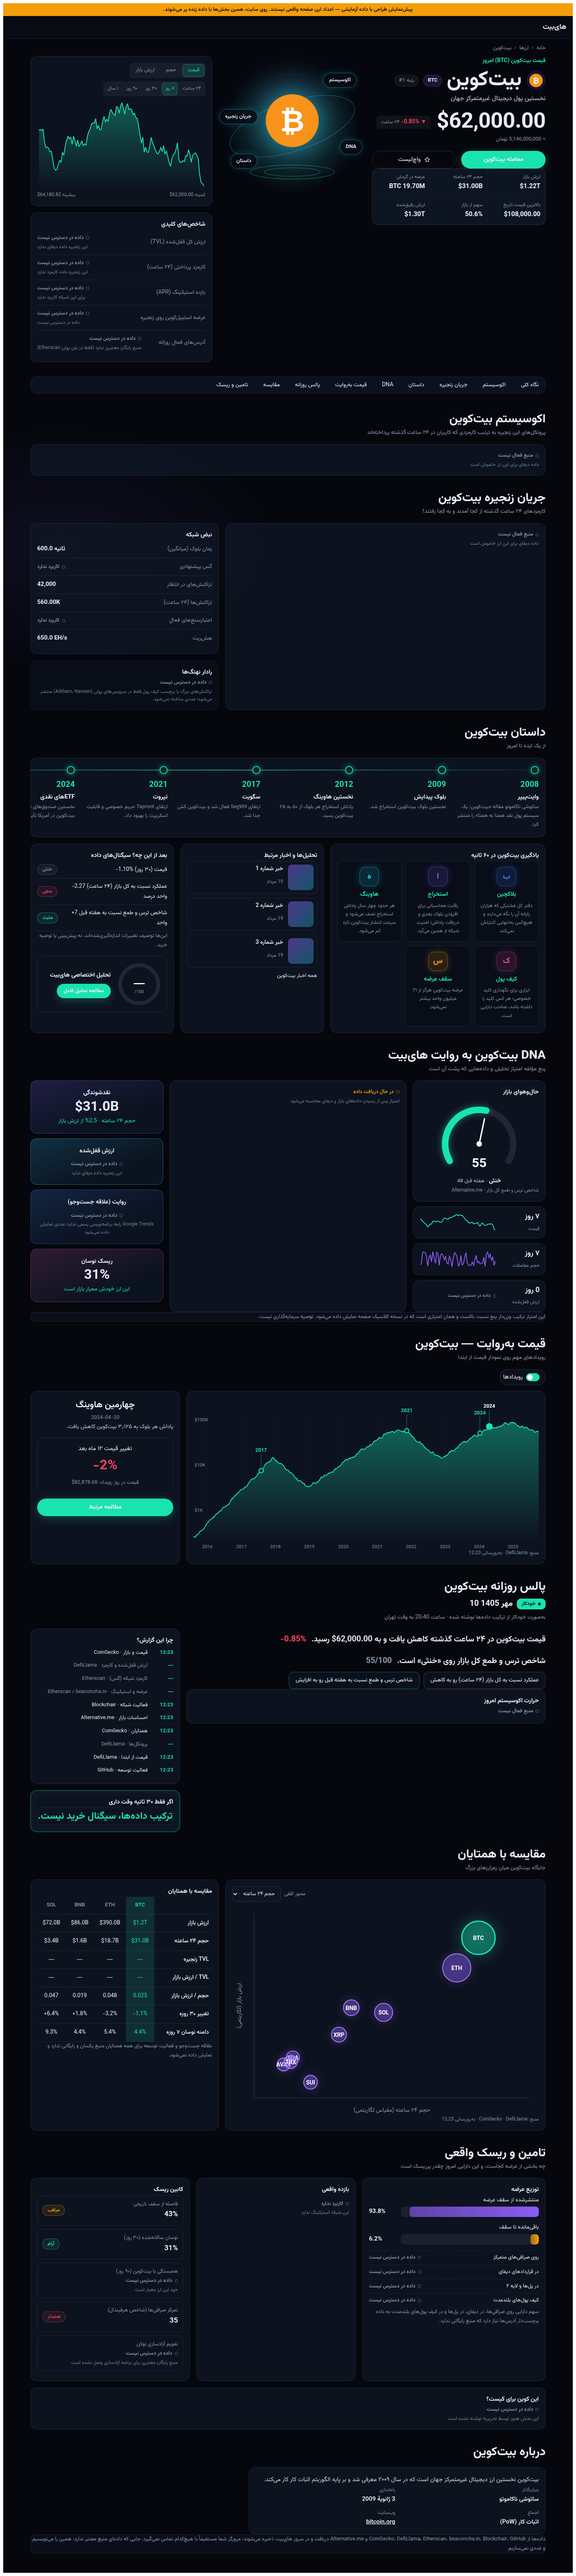
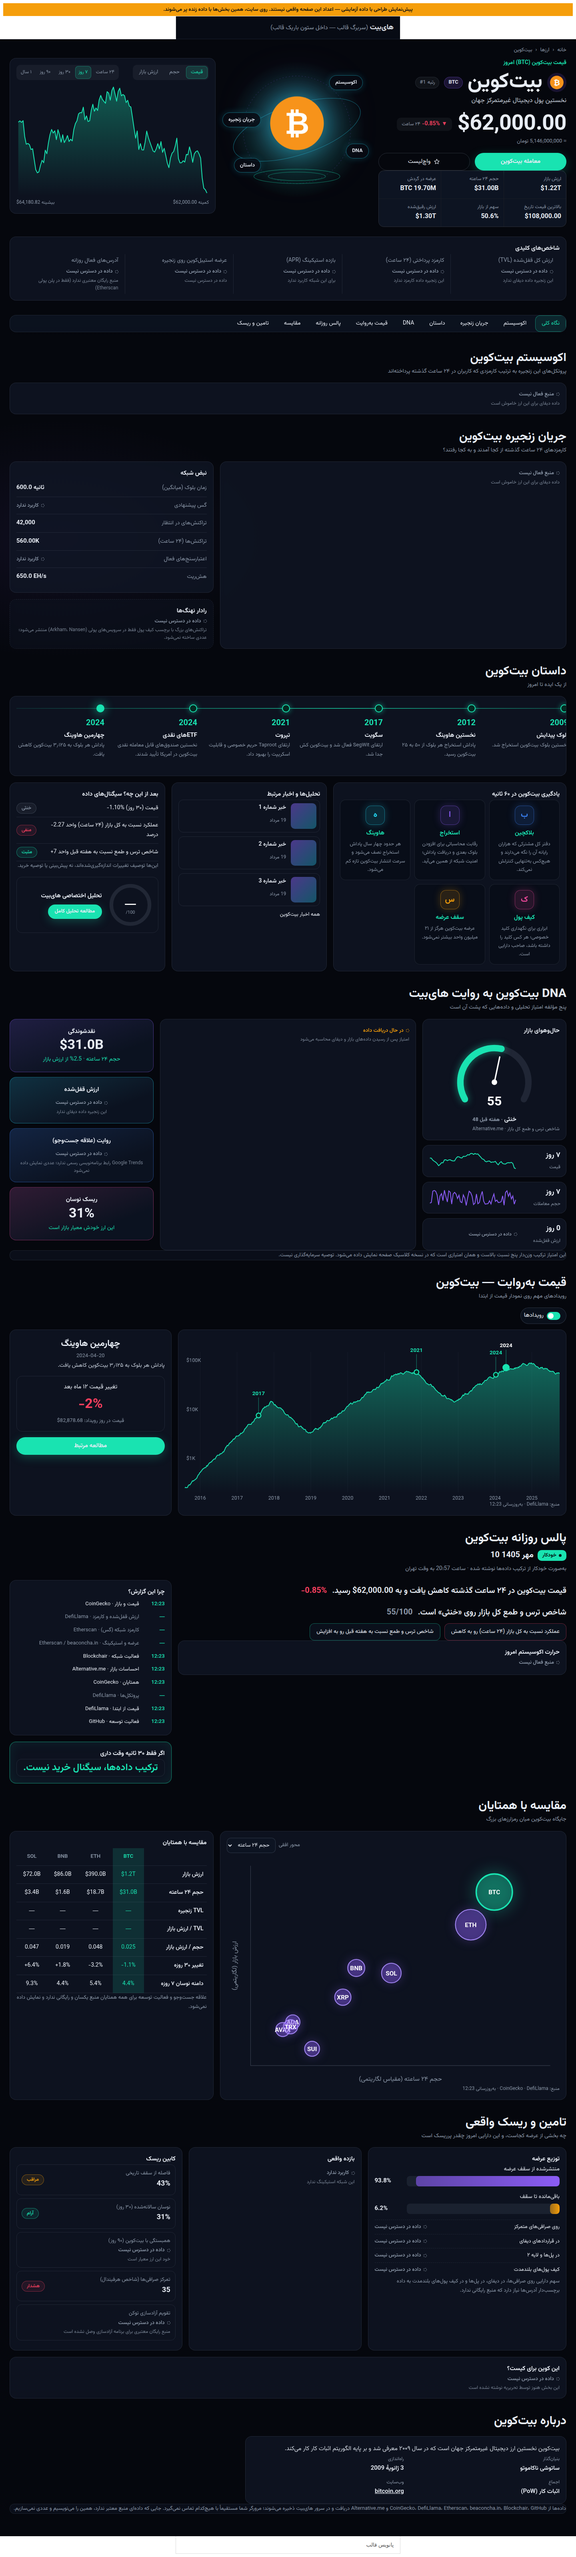
v2: use the full desktop width inside narrow theme boxes
The live theme wraps a single post in a ~470px box, and v2 laid itself
out from the window width: a desktop grid squeezed into a phone-sized
column. Now:

- The page breaks out of the theme box to the viewport (exact client
  width via a tiny inline script, CSS fallback without JS), correcting
  for off-centre boxes and padding.
- Every breakpoint is a container query on the page's own width.
- Desktop hero: identity | orbit | chart, key metrics as a full-width
  band; content cap raised to 1760px.
- Phone layouts for the fee-flow Sankey (legend list) and the
  ecosystem list (secondary columns hidden); wide charts open centred.
- Browser tests render inside boxed, sidebar and shrink-to-fit theme
  layouts at 1440 and 390 and assert full width and column counts;
  they fail on the previous build with the reported symptom.
- Screenshots served over HTTP so v2.js runs in them.

Claude-Session: https://claude.ai/code/session_01Lja8rszZytu3z9uyLt9Xtg

diff --git a/thehybit-coins/assets/v2/v2.css b/thehybit-coins/assets/v2/v2.css
@@ -9,6 +9,11 @@
  * inside its own box instead.
  */
 
+/* The breakout above makes the page exactly as wide as the viewport; clip
+   rather than scroll anything that rounds a pixel over. Only on pages that
+   contain the v2 design — the classic page never loads this file. */
+html:has(.thb-v2) { overflow-x: clip; }
+
 @font-face {
   font-family: "Vazirmatn";
   src: url("../fonts/vazirmatn/Vazirmatn-Regular.woff2") format("woff2");
@@ -32,6 +37,24 @@
 }
 
 .thb-v2 {
+  /* FULL WIDTH, WHATEVER THE THEME WRAPS US IN.
+     Themes put single posts in a boxed column — on the live site, a column
+     about 470px wide on a 1440px screen. The page breaks out of that box to
+     the viewport: width is the viewport's, and the negative margins (100% is
+     the box's width) centre it on the viewport. --v2-vw starts as 100vw and
+     is replaced with the exact client width, scrollbar excluded, by the small
+     inline script at the top of the template, which also corrects the
+     margins when the theme's box is not centred (a sidebar layout). */
+  --v2-vw: 100vw;
+  width: var(--v2-vw);
+  max-width: none;
+  margin-left: calc((100% - var(--v2-vw)) / 2);
+  margin-right: calc((100% - var(--v2-vw)) / 2);
+  /* Layout follows THIS element's width, not the window's: every breakpoint
+     below is a container query on `v2`. If a theme ever clips the breakout,
+     the page still lays out for the width it really has instead of showing
+     a desktop grid squeezed into a phone-sized column. */
+  container: v2 / inline-size;
   --v2-bg: #05070d;
   --v2-bg-2: #070b14;
   --v2-surface: rgba(16, 24, 39, .72);
@@ -82,7 +105,11 @@
 .thb-v2 :focus-visible { outline: 2px solid var(--v2-accent); outline-offset: 2px; border-radius: 6px; }
 .thb-v2 [hidden] { display: none !important; }
 
-.v2-wrap { max-width: 1320px; margin: 0 auto; padding: 12px 16px 48px; }
+/* Content spans the page. The cap only applies on very wide monitors (beyond
+   1760px), where full-width lines and charts get too long to read. At 1440
+   the content is 1440 − 2×24px wide. */
+.v2-wrap { max-width: 1760px; margin: 0 auto; padding: 12px 16px 48px; }
+@container v2 (min-width: 1120px) { .v2-wrap { padding: 16px 24px 56px; } }
 
 .v2-sr {
   position: absolute; width: 1px; height: 1px; overflow: hidden;
@@ -207,7 +234,7 @@
 /* A wide chart on a narrow screen scrolls inside its card, at a size where
    its labels are still readable, instead of shrinking to illegibility. */
 .v2-xscroll { overflow-x: auto; -webkit-overflow-scrolling: touch; scrollbar-width: thin; }
-@media (max-width: 767px) {
+@container v2 (max-width: 767px) {
   .v2-xscroll > svg { min-width: var(--min, 640px); }
 }
 
@@ -334,6 +361,16 @@
 .v2-flow__total { fill: #fff; font-size: 22px; font-weight: 700; }
 .v2-flow__sub { fill: var(--v2-muted); font-size: 13px; }
 .v2-flow__legend { display: flex; justify-content: space-between; gap: 12px; flex-wrap: wrap; color: var(--v2-muted); font-size: 12px; margin-top: 8px; }
+.v2-flow__mobile { display: none; }
+.v2-flow__mtitle { font-size: 13px; color: var(--v2-muted); margin: 12px 0 6px; font-weight: 600; }
+.v2-flow__mlist li { display: flex; align-items: center; gap: 8px; padding: 4px 0; font-size: 14px; }
+.v2-flow__mlist .v2-num { margin-right: auto; /* physical: the number is dir=ltr, so a logical margin would point the wrong way */ color: var(--v2-accent); font-weight: 700; }
+.v2-swatch { width: 12px; height: 12px; border-radius: 3px; background: var(--tone); flex: none; }
+@container v2 (max-width: 599px) {
+  .v2-flow__mobile { display: block; }
+  .v2-flow__label, .v2-flow__pct { display: none; }
+  .v2-hide-sm { display: none; }
+}
 .v2-flow__side { display: grid; gap: var(--v2-gap); align-content: start; min-width: 0; }
 .v2-facts { display: grid; gap: var(--v2-gap); grid-template-columns: minmax(0, 1fr); margin-top: var(--v2-gap); }
 .v2-facts li { display: flex; justify-content: space-between; align-items: center; gap: 12px; }
@@ -382,7 +419,7 @@
 
 .v2-dna__grid { display: grid; gap: var(--v2-gap); grid-template-columns: minmax(0, 1fr); }
 .v2-dna__grid .v2-radar { order: -1; }
-@media (max-width: 599px) {
+@container v2 (max-width: 599px) {
   .v2-radar__lbl { font-size: 20px; }
   .v2-radar__val { font-size: 19px; }
   .v2-radar__nodata { font-size: 16px; }
@@ -514,13 +551,13 @@
 
 /* ---------- breakpoints ---------- */
 
-@media (min-width: 600px) {
+@container v2 (min-width: 600px) {
   .v2-stats { grid-template-columns: repeat(3, minmax(0, 1fr)); }
   .v2-facts { grid-template-columns: repeat(3, minmax(0, 1fr)); }
   .v2-audience__list { grid-template-columns: repeat(3, minmax(0, 1fr)); }
 }
 
-@media (min-width: 768px) {
+@container v2 (min-width: 768px) {
   .v2-overview { grid-template-columns: minmax(0, 1fr) minmax(0, 1fr); }
   .v2-eco__grid, .v2-flow__grid, .v2-peers__grid { grid-template-columns: minmax(0, 1.7fr) minmax(0, 1fr); }
   .v2-pstory__grid, .v2-pulse__grid { grid-template-columns: minmax(0, 2.4fr) minmax(0, 1fr); }
@@ -533,8 +570,24 @@
   .v2-about__grid { grid-template-columns: minmax(0, 1.4fr) minmax(0, 1fr); }
 }
 
-@media (min-width: 1120px) {
-  .v2-overview { grid-template-columns: minmax(0, 1.05fr) minmax(0, .85fr) minmax(0, 1.1fr); }
+@container v2 (min-width: 1120px) {
+  /* Desktop hero: identity | orbit | chart on one row, key metrics as a
+     full-width band of five beneath — the proportions of reference 2. */
+  .v2-overview {
+    grid-template-columns: minmax(0, 1.05fr) minmax(0, .8fr) minmax(0, 1.15fr);
+    grid-template-areas: "id orbit chart" "km km km";
+  }
+  .v2-overview__id { grid-area: id; }
+  .v2-orbit { grid-area: orbit; }
+  .v2-overview__side { display: contents; }
+  .v2-chartcard { grid-area: chart; }
+  .v2-keymetrics { grid-area: km; }
+  .v2-chart { height: 280px; }
+  .v2-keymetrics .v2-kv { display: grid; grid-template-columns: repeat(5, minmax(0, 1fr)); }
+  .v2-keymetrics .v2-kv li { flex-direction: column; align-items: flex-start; justify-content: flex-start; gap: 4px; border-bottom: 0; padding: 4px 16px; }
+  .v2-keymetrics .v2-kv li + li { border-inline-start: 1px solid var(--v2-line); }
+  .v2-keymetrics .v2-kv__value { margin-inline-start: 0; font-size: 20px; }
+  .v2-keymetrics .v2-kv .v2-na { margin-inline-start: 0; max-width: none; text-align: right; }
   .v2-orbit { display: block; }
   .v2-story__grid { grid-template-columns: minmax(0, 1.5fr) minmax(0, 1fr) minmax(0, 1fr); }
   .v2-story__grid .v2-learn { grid-column: auto; }

diff --git a/thehybit-coins/assets/v2/v2.js b/thehybit-coins/assets/v2/v2.js
@@ -248,8 +248,22 @@ function initTimeline() {
   box.scrollBy({ left: (i.left + i.width / 2) - (b.left + b.width / 2) });
 }
 
+/* On a phone, wide charts scroll inside their card. Graphs organised around
+   a centre (ecosystem, fee flow, peers) open on their centre; the price
+   history keeps its RTL start, which is the newest end of the time axis. */
+function initCentred() {
+  $$('[data-v2-center]').forEach((box) => {
+    const over = box.scrollWidth - box.clientWidth;
+    if (over <= 0) return;
+    const b = box.getBoundingClientRect();
+    const inner = box.firstElementChild.getBoundingClientRect();
+    box.scrollBy({ left: (inner.left + inner.width / 2) - (b.left + b.width / 2) });
+  });
+}
+
 initChart();
 initTimeline();
+initCentred();
 initWatchlist();
 initEcosystem();
 initPriceStory();

diff --git a/thehybit-coins/templates/v2/partials/ecosystem.php b/thehybit-coins/templates/v2/partials/ecosystem.php
@@ -39,7 +39,7 @@ $first = $nodes[0] ?? null;
 
   <div class="v2-eco__grid">
     <div class="v2-card v2-eco__map" data-v2-eco-map>
-      <div class="v2-xscroll" style="--min: 680px">
+      <div class="v2-xscroll" style="--min: 680px" data-v2-center>
         <svg viewBox="0 0 1000 600" role="img" aria-label="نقشه پروتکلهای <?= esc_attr($c['name']) ?> بر اساس کارمزد ۲۴ ساعته">
         <defs>
           <radialGradient id="v2-core" cx="50%" cy="50%" r="50%">
@@ -74,21 +74,21 @@ $first = $nodes[0] ?? null;
     </div>
 
     <div class="v2-card v2-eco__list" data-v2-eco-list hidden>
-      <table class="v2-table">
+      <div class="v2-scroll"><table class="v2-table">
         <caption class="v2-sr">پروتکلها بر اساس کارمزد ۲۴ ساعته</caption>
-        <thead><tr><th scope="col">پروتکل</th><th scope="col">دسته</th><th scope="col">کارمزد ۲۴ساعته</th><th scope="col">سهم</th><th scope="col">تغییر ۱ روزه</th></tr></thead>
+        <thead><tr><th scope="col">پروتکل</th><th scope="col" class="v2-hide-sm">دسته</th><th scope="col">کارمزد ۲۴ساعته</th><th scope="col" class="v2-hide-sm">سهم</th><th scope="col">تغییر ۱ روزه</th></tr></thead>
         <tbody>
           <?php foreach ($nodes as $nd) : ?>
             <tr data-group="<?= esc_attr($nd['group']) ?>">
               <th scope="row"><bdi><?= esc_html($nd['name']) ?></bdi></th>
-              <td><?= esc_html($nd['categoryFa']) ?></td>
+              <td class="v2-hide-sm"><?= esc_html($nd['categoryFa']) ?></td>
               <td><?= View::n(Format::usdCompact($nd['fees'])) ?></td>
-              <td><?= View::n($nd['share'] !== null ? Format::pct($nd['share'], false, 1) : null) ?></td>
+              <td class="v2-hide-sm"><?= View::n($nd['share'] !== null ? Format::pct($nd['share'], false, 1) : null) ?></td>
               <td class="v2-delta--<?= View::dir($nd['change']) ?>"><?= View::n(Format::pct($nd['change'], true, 1)) ?></td>
             </tr>
           <?php endforeach; ?>
         </tbody>
-      </table>
+      </table></div>
     </div>
 
     <aside class="v2-eco__side">

diff --git a/thehybit-coins/templates/v2/partials/flow.php b/thehybit-coins/templates/v2/partials/flow.php
@@ -30,7 +30,7 @@ $tones = ['violet', 'blue', 'teal', 'pink', 'slate'];
   <div class="v2-flow__grid">
     <div class="v2-card v2-flow__sankey">
       <?php if ($f['state'] === 'ok') : ?>
-        <div class="v2-xscroll" style="--min: 700px">
+        <div class="v2-xscroll" style="--min: 0px">
         <svg viewBox="-20 0 1100 400" role="img" aria-label="نمودار جریان کارمزد <?= esc_attr($c['name']) ?>: مجموع <?= esc_attr(Format::usdCompact($f['fees'])) ?> در ۲۴ ساعت">
           <?php foreach ($f['ribbonsLeft'] as $i => $r) : ?>
             <path class="v2-ribbon v2-t--<?= $tones[$i % 5] ?>" d="<?= esc_attr($r['d']) ?>"/>
@@ -51,6 +51,19 @@ $tones = ['violet', 'blue', 'teal', 'pink', 'slate'];
           <text class="v2-flow__total" x="500" y="236" text-anchor="middle"><?= esc_html(Format::usdCompact($f['fees'], 1)) ?></text>
           <text class="v2-flow__sub v2-fa" x="500" y="256" text-anchor="middle">کارمزد ۲۴ ساعته</text>
         </svg>
+        </div>
+        <?php /* Phone layout: the diagram fits the card and its labels move into
+           this list, where they can be read at full size. */ ?>
+        <div class="v2-flow__mobile">
+          <?php foreach ([['از کجا آمد', $f['left'], $tones], ['به کجا رفت', $f['right'], ['green', 'teal']]] as [$title, $nodes, $tn]) : ?>
+            <h3 class="v2-flow__mtitle"><?= esc_html($title) ?></h3>
+            <ul class="v2-flow__mlist">
+              <?php foreach ($nodes as $i => $node) : ?>
+                <li><span class="v2-swatch v2-t--<?= esc_attr($tn[$i % count($tn)]) ?>" aria-hidden="true"></span><?= esc_html($node['label']) ?>
+                  <?= View::n(Format::pct($node['share'] * 100, false, 1)) ?></li>
+              <?php endforeach; ?>
+            </ul>
+          <?php endforeach; ?>
         </div>
         <div class="v2-flow__legend">
           <span>چپ: کارمزد بر اساس نوع پروتکل</span>

diff --git a/tools/v2-bootstrap.php b/tools/v2-bootstrap.php
@@ -45,8 +45,14 @@ function get_header(...$a): void
     echo "<title>" . htmlspecialchars($title) . "</title>\n";
     echo "<link rel=\"stylesheet\" href=\"" . ($GLOBALS['thb_asset_base'] ?? 'thehybit-coins/') . "assets/v2/v2.css\">\n";
     echo "</head>\n<body>\n";
+    /* Like the live theme: every page sits in a narrow boxed column, header
+       included. v2 must break out of it; the box is drawn so a screenshot
+       shows that it did. */
+    if (!empty($GLOBALS['thb_theme_boxed'])) {
+        echo "<div id=\"page\" style=\"max-width:560px;margin:0 auto;background:#fff;border:1px solid #ddd\">\n";
+    }
     // A stand-in for the theme's header, so the page is judged inside a site.
-    echo "<header style=\"padding:14px 16px;background:#070b14;border-bottom:1px solid #18202f;color:#e8edf5;font:600 18px Vazirmatn,sans-serif\">هایبیت</header>\n";
+    echo "<header style=\"padding:14px 16px;background:#070b14;border-bottom:1px solid #18202f;color:#e8edf5;font:600 18px Vazirmatn,sans-serif\">هایبیت <small style=\"font-weight:400;color:#8b97a8\">(سربرگ قالب — داخل ستون باریک قالب)</small></header>\n";
 }
 
 function get_footer(...$a): void
@@ -57,6 +63,9 @@ function get_footer(...$a): void
        . wp_json_encode(\TheHybit\Coins\V2\Model::client($plugin->v2($coin)), JSON_UNESCAPED_UNICODE | JSON_UNESCAPED_SLASHES)
        . ";</script>\n";
     echo "<script type=\"module\" src=\"" . ($GLOBALS['thb_asset_base'] ?? 'thehybit-coins/') . "assets/v2/v2.js\"></script>\n";
+    if (!empty($GLOBALS['thb_theme_boxed'])) {
+        echo "<footer style=\"padding:14px 16px;color:#555;font:13px sans-serif\">پانویس قالب</footer></div>\n";
+    }
     echo "</body>\n</html>";
 }
 

diff --git a/thehybit-coins/templates/v2/single-coin.php b/thehybit-coins/templates/v2/single-coin.php
@@ -50,6 +50,13 @@ get_header();
 ?>
 
 <div class="thb-v2" data-thb-design="v2">
+  <?php /* Runs as soon as it is parsed, before this section paints, so there
+     is no narrow first frame. Sets the exact viewport width (100vw would
+     include the scrollbar and cause a sideways scroll) and pins the page's
+     edges to the viewport's even when the theme's box is off-centre. The
+     ResizeObserver catches the scrollbar appearing after fonts and images
+     load, which fires no resize event. CSS alone handles the no-JS case. */ ?>
+  <script>(function(){var e=document.currentScript.parentNode,d=document.documentElement;function f(){var w=d.clientWidth,b=e.parentNode,p=b.getBoundingClientRect(),c=getComputedStyle(b),l=p.left+parseFloat(c.paddingLeft)+parseFloat(c.borderLeftWidth),r=p.right-parseFloat(c.paddingRight)-parseFloat(c.borderRightWidth);e.style.setProperty('--v2-vw',w+'px');e.style.marginLeft=(-l)+'px';e.style.marginRight=(r-w)+'px';}f();window.ResizeObserver?new ResizeObserver(f).observe(d):addEventListener('resize',f);})();</script>
   <div class="v2-wrap">
 
     <?php require $parts . 'breadcrumb.php'; ?>

diff --git a/thehybit-coins/templates/v2/partials/peers.php b/thehybit-coins/templates/v2/partials/peers.php
@@ -36,7 +36,7 @@ $plot = array_values(array_filter($p['rows'], static fn($r) => $r['marketCap'] !
           </select>
         </label>
       </div>
-      <div class="v2-xscroll" style="--min: 560px">
+      <div class="v2-xscroll" style="--min: 560px" data-v2-center>
         <svg viewBox="0 0 700 480" role="img" aria-label="نمودار حبابی: ارزش بازار در برابر <?= $p['hasTvl'] ? 'ارزش قفلشده' : 'حجم معاملات' ?>؛ اندازه حباب حجم ۲۴ ساعته">
         <line class="v2-axisline" x1="50" y1="440" x2="680" y2="440"/>
         <line class="v2-axisline" x1="50" y1="20" x2="50" y2="440"/>

diff --git a/tools/v2-showcase.php b/tools/v2-showcase.php
@@ -13,6 +13,7 @@ declare(strict_types=1);
 
 require_once __DIR__ . '/showcase-payloads.php';
 $GLOBALS['thb_probe_scenario'] = 'showcase';
+$GLOBALS['thb_theme_boxed'] = true;   // render inside a narrow theme box, as on the live site
 require_once __DIR__ . '/v2-bootstrap.php';
 
 Probe::reset();

diff --git a/docs/V2.md b/docs/V2.md
@@ -60,9 +60,19 @@ The cost of a v2 page render is the same as a classic one: Ethereum 7 requests c
 
 The radar plots the five components of the existing Scoring model, with their own weights. The centre shows the same score as the classic page. The reference's six axes are not what the score is made of, so they are not drawn.
 
+## Layout
+
+- **Full width:** the v2 page breaks out of the theme's content box to the full window width. It uses the exact width without the scrollbar, so there is no sideways scroll, and it corrects for off-centre boxes such as sidebar layouts.
+- **Width-based breakpoints:** every breakpoint is a container query on the page's own width, not the window's.
+  - Desktop (≥1120px): multi-column grids.
+  - Tablet (768–1119px): two columns.
+  - Phone (<600px): one stacked column.
+- **Content width cap:** 1760px. It only matters on very wide monitors; at 1440px the content is 1440 − 2×24px.
+- **Tests:** the browser suite renders the page inside three theme layouts (a narrow box, a sidebar layout, and a shrink-to-fit wrapper) at 1440px and 390px. It asserts full width, no overflow, and the column count of each screen.
+
 ## Screenshots
 
-`docs/v2-screens/compare-*.png` show each built screen beside its reference. They are rendered from **test data** (`tools/showcase-payloads.php`), not live figures, because this build environment cannot reach any provider. The full-page captures carry a visible "test data" banner.
+`docs/v2-screens/screen-*.png` show each screen at 1440px and 390px beside its reference image. They are rendered from **test data** (`tools/showcase-payloads.php`), not live figures, because this build environment cannot reach any provider. The full-page captures carry a visible "test data" banner.
 
 To regenerate them:
 
@@ -71,3 +81,5 @@ php tools/v2-showcase.php
 node tools/v2-screens.mjs docs/v2-screens
 node tools/v2-compare.mjs docs/v2-screens
 ```
+
+The showcase renders inside a narrow boxed theme column, as on the live site, so the full-page captures also show the page breaking out of it.
